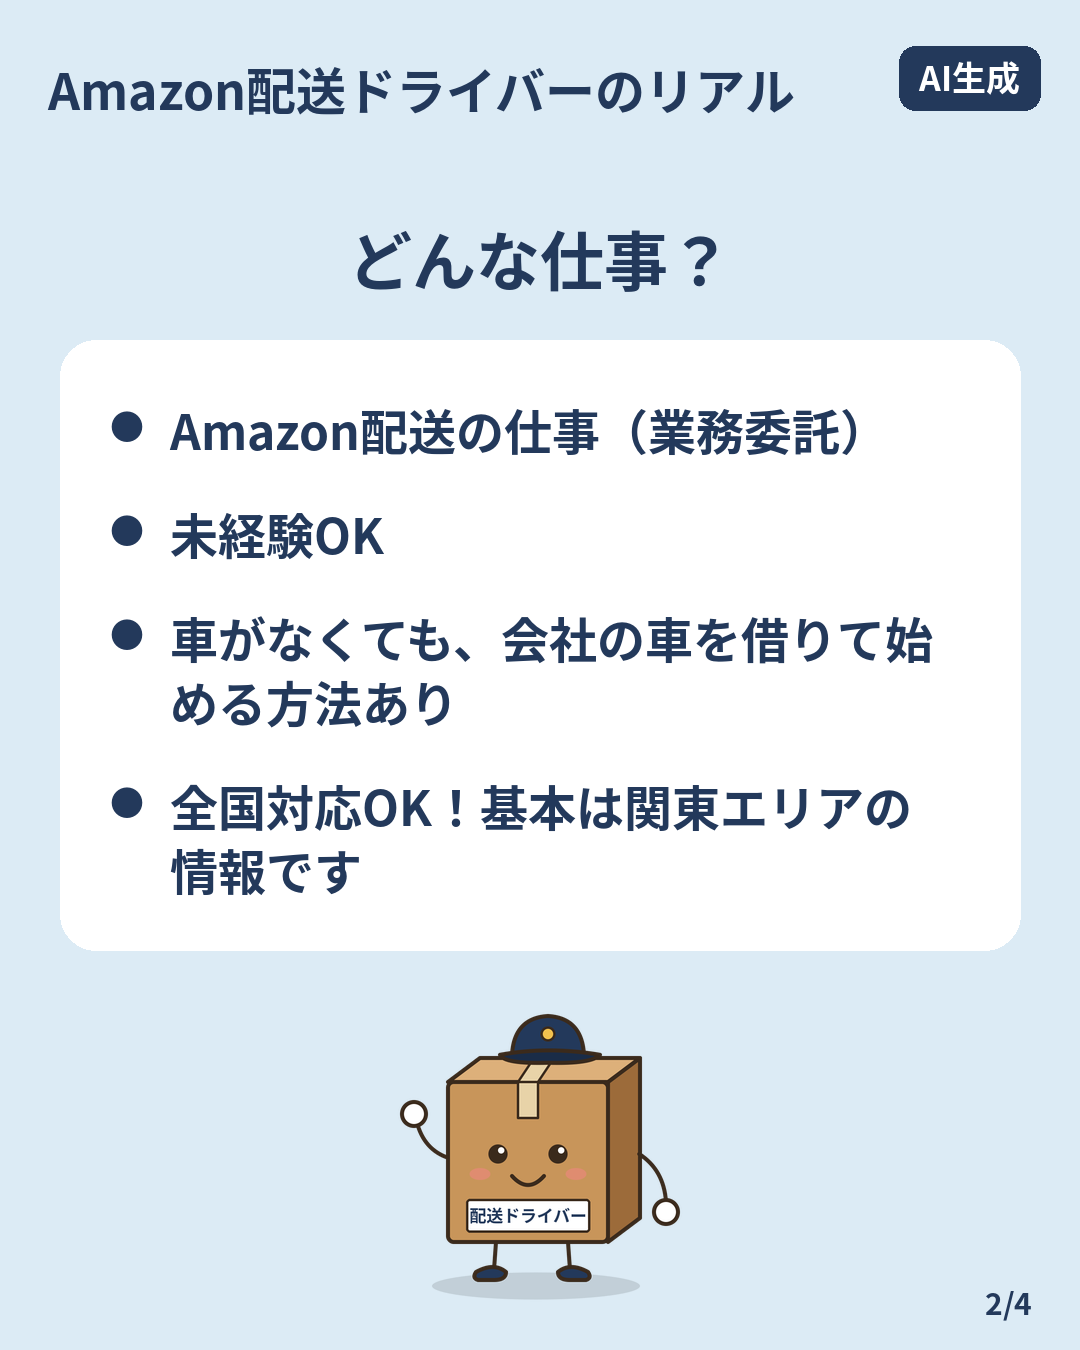
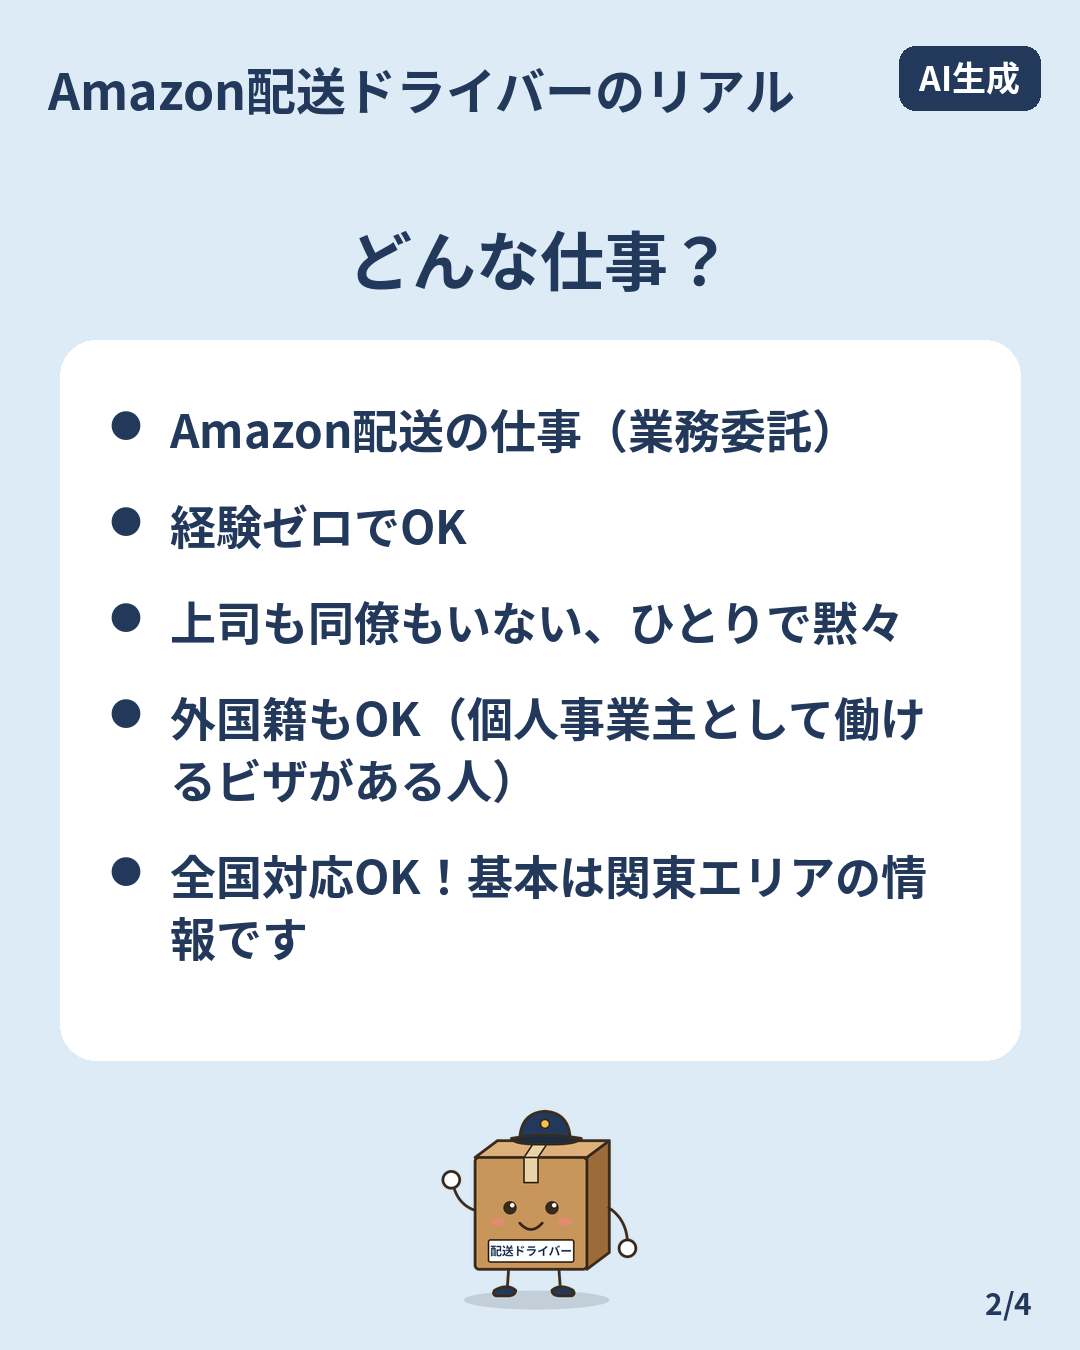
確認済みの条件を固定投稿・README・引き継ぎメモに反映
Claude-Session: https://claude.ai/code/session_01FgFvHkLrSmEZou6AkHWdFW

Changed region(s): [[0.0306, 0.3733, 0.9472, 0.9956], [0.1528, 0.28, 0.7944, 0.3422]]

diff --git a/video_tool/make_pinned_post.py b/video_tool/make_pinned_post.py
@@ -25,10 +25,12 @@ COST_TABLE = {
 CAPTION = """【はじめに読んでください】
 このアカウントでは、Amazon配送の仕事（業務委託）のリアルを、いいこともきついことも正直に紹介しています。
 
-・未経験OK
-・車がなくても、会社の車を借りて始める方法があります
-・全国対応OK！
-・基本は関東エリアの情報です
+✅ 経験ゼロでOK
+✅ 車がなくても、貸してもらえる
+✅ 車レンタルは持ち帰れる
+✅ 上司も同僚もいない、ひとりで黙々
+✅ 外国籍もOK（個人事業主として働けるビザがある人）
+✅ 全国対応OK！基本は関東エリアの情報です
 
 気になる人は、DMで「相談したい」と送ってください。
 質問だけでも大丈夫です。
@@ -104,28 +106,29 @@ def page1(total):
 def page2(total):
     im, d = base(2, total)
     centered(d, "どんな仕事？", 64, 210)
-    white_box(d, 340, 950)
-    bullets(d, [
+    white_box(d, 340, 1060)
+    bottom = bullets(d, [
         "Amazon配送の仕事（業務委託）",
-        "未経験OK",
-        "車がなくても、会社の車を借りて始める方法あり",
+        "経験ゼロでOK",
+        "上司も同僚もいない、ひとりで黙々",
+        "外国籍もOK（個人事業主として働けるビザがある人）",
         "全国対応OK！基本は関東エリアの情報です",
-    ], 400, size=48, gap=40)
-    paste_chara(im, 0.4, W / 2, H - 50)
+    ], 400, size=46, gap=34)
+    paste_chara(im, 0.28, W / 2, H - 40)
     return im
 
 
 def page3(total):
     im, d = base(3, total)
     centered(d, "車がない人は？", 64, 190)
-    centered(d, "会社の車を借りる方法があります。\nただし、毎月お金がかかります。", 40, 300, 60)
+    centered(d, "車がなくても、貸してもらえます。\n車レンタルは持ち帰れます。\nただし、毎月お金がかかります。", 40, 290, 58)
     # 表（動画と同じデザイン）
     tmp = Image.new("RGB", (mv.W, mv.H), mv.BG)
     mv.draw_table(ImageDraw.Draw(tmp), dict(COST_TABLE, highlight_last=False))
     table_img = tmp.crop((0, 250, mv.W, 250 + 80 + 130 * 2 + 22 + 60))
-    im.paste(table_img, (0, 450))
+    im.paste(table_img, (0, 480))
     f = mv.font(26)
-    y = 900
+    y = 930
     for para in mv.DISCLAIMER:
         for ln in mv.wrap(d, para, f, W - 120):
             d.text((60, y), ln, font=f, fill=mv.FG)

diff --git a/video_tool/README.md b/video_tool/README.md
@@ -106,6 +106,15 @@ caption: |
 - ガソリン代：月約3万円
 - 合計：月約10万6,000円
 
+**使ってよい条件（紹介会社に確認済み）**
+
+- 経験ゼロでOK
+- 車がなくても、貸してもらえる
+- 車レンタルは持ち帰れる
+- 上司も同僚もいない、ひとりで黙々
+- 全国どこでも働ける（書くときは「全国対応OK！基本は関東エリアの情報です」）
+- 外国籍もOK（個人事業主として働けるビザがある人）
+
 **まだ使わない（紹介会社に確認中）**
 
 - 東京・自分の車の場合の月の目安（平均 約46万7,000円／稼ぐ人 約60万7,000円）
@@ -113,11 +122,12 @@ caption: |
 - 会社の車を借りる場合の、車代・ガソリン代を引いた後の額
 - 「経費を引いた後 平均 約22万1,000円」「多い人 37万9,000円／38万円」（どこの地域の数字か分からないため）
 - 沖縄の金額
-- 「上司も同僚もいない」「休みの日も車に乗ってOK」
+- 「休みの日も車に乗ってOK」（「持ち帰れる」は確認済みやけど、休みの日に乗ってええかは未確認）
 - 自分の車の場合の、車検・保険などの費用
 
 そのほか：
 - キャラには「Amazon」と書かない（公式の募集とまちがわれるから）
+- 相談はインスタのDMで受け付ける（個人のLINEは使わない）
 - 投稿文には次の2行を書く（全国対応はこの1行だけ。ほかは関東エリアの情報にする）
   ```
   全国対応OK！

diff --git a/CLAUDE.md b/CLAUDE.md
@@ -68,4 +68,7 @@
   - アイコンははこぶ（`video_tool/assets/icon_hakobu.png`）、自己紹介入力済み、「AI生成のプロフィール」ラベルON
   - プロアカウント（クリエイター／カテゴリ：デジタルクリエイター、プロフィールには非表示）に切り替え済み。宣伝メールOFF、Facebook連携なし
   - たまさんの方針：お金は一切かけない（Meta One・認証バッジ・広告は使わない）。プライベートとのつながりは「本人が言わなければ分からない」程度でOK
-- 次の作業：TikTokのアカウント作り → 固定投稿（条件の説明）を作る → 最初の動画を予約投稿
+- 紹介会社に確認済みの条件（たまさん確認）：経験ゼロでOK／車がなくても貸してもらえる／車レンタルは持ち帰れる／上司も同僚もいない、ひとりで黙々／全国どこでも働ける／外国籍もOK（個人事業主として働けるビザがある人）
+- 相談の窓口はインスタのDM（個人のLINEは身バレするので使わない）。将来、人が増えたらLINE公式アカウントも検討
+- 固定投稿の画像4枚と投稿文は `video_tool/make_pinned_post.py` で作成済み（`video_tool/output/pinned/`）
+- 次の作業：インスタに固定投稿を出す → 最初の動画を予約投稿 → そのあとTikTok（たまさんの希望で、インスタを先に仕上げる）
